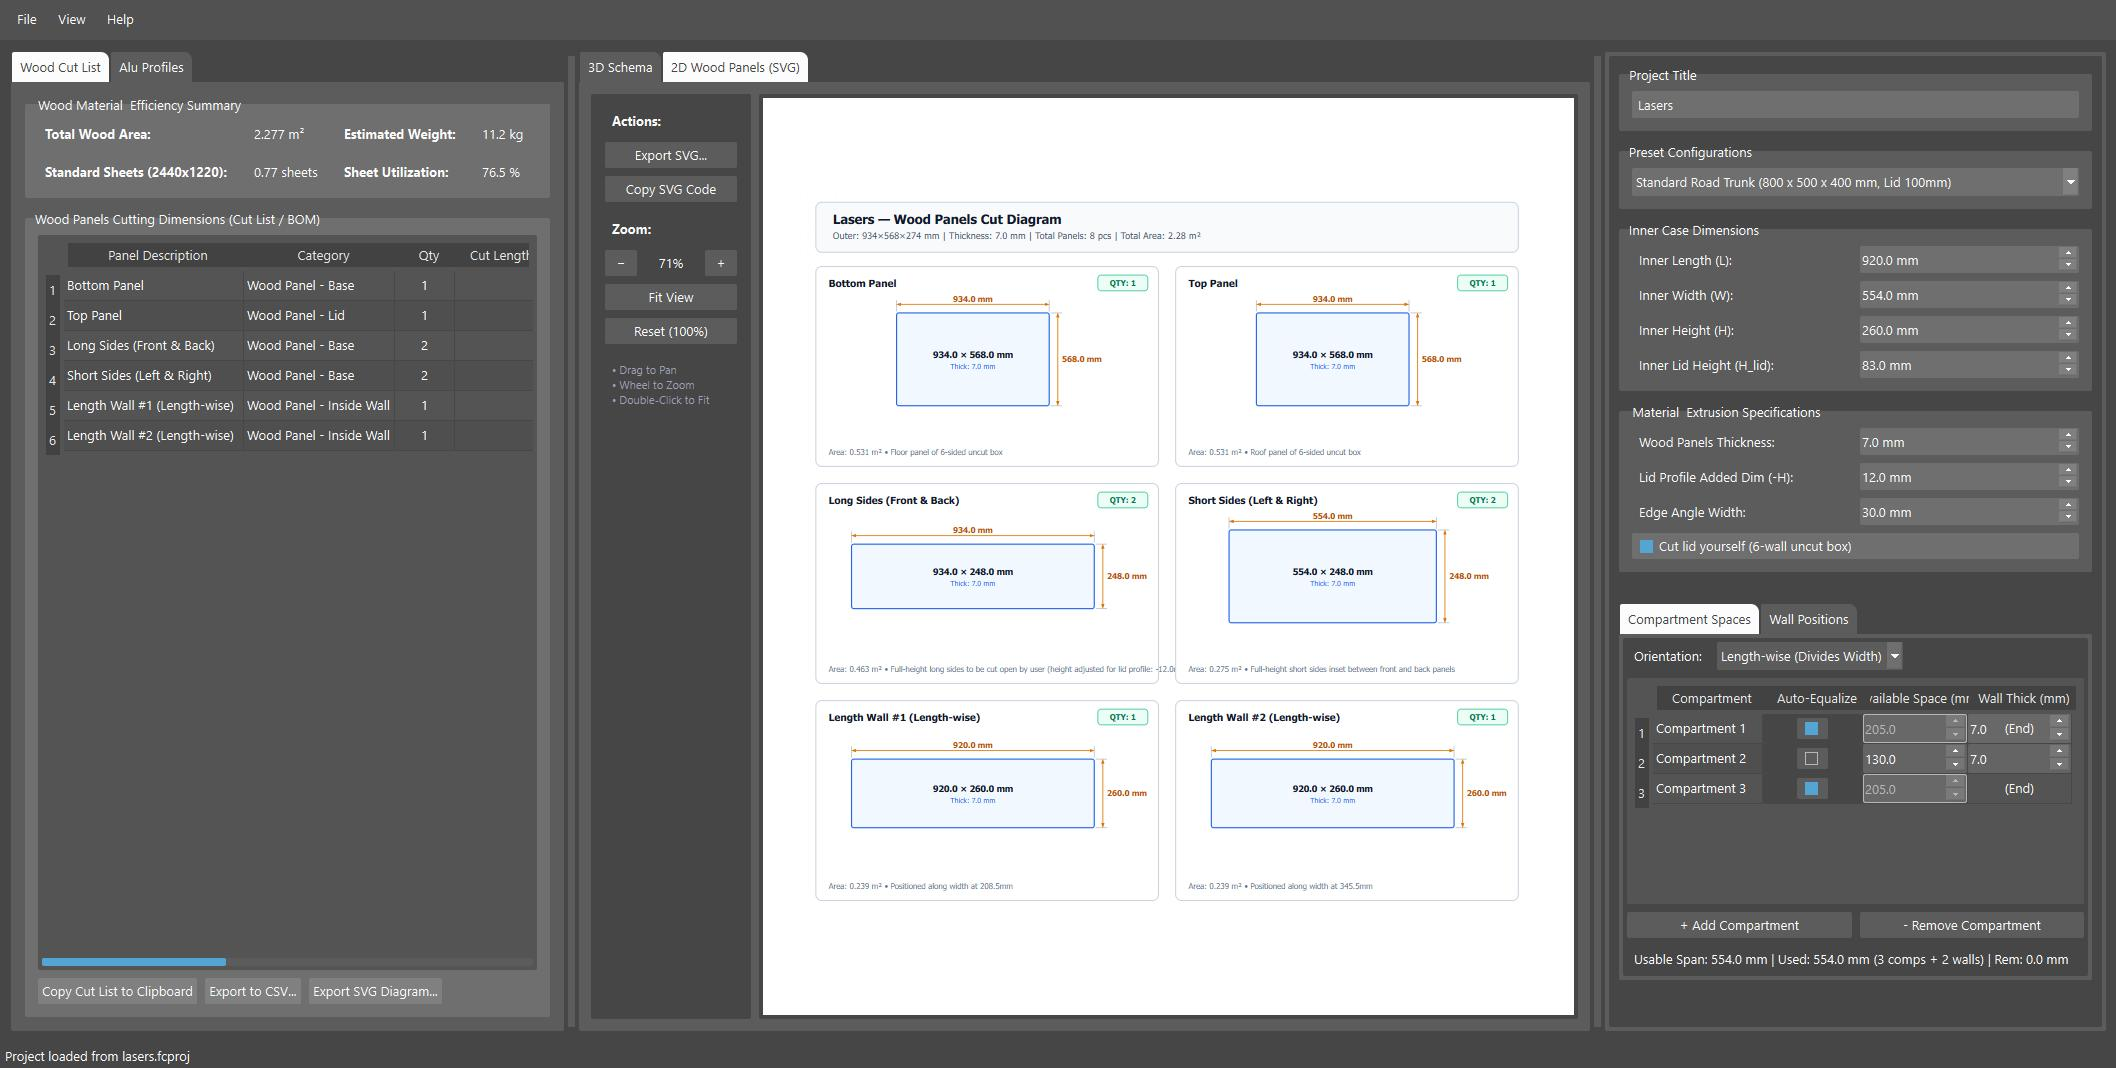
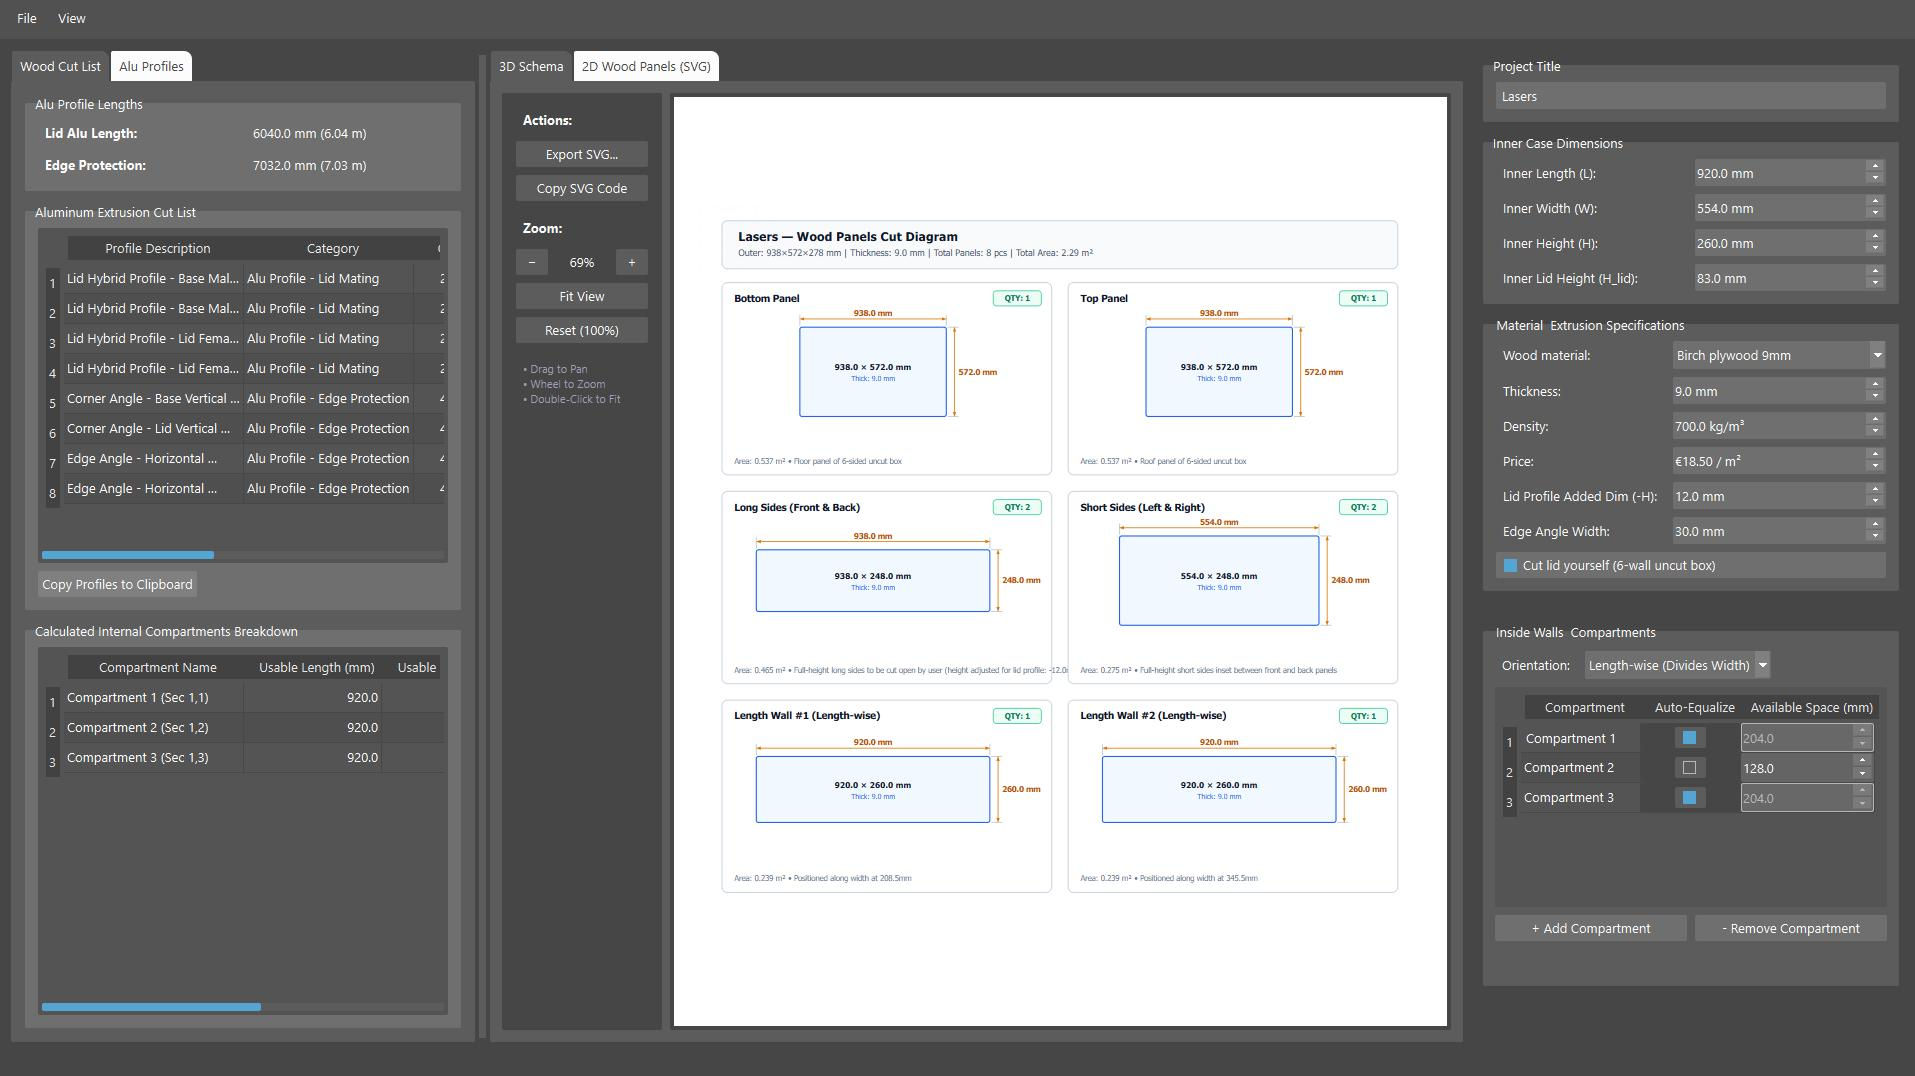
updated README.md

diff --git a/README.md b/README.md
@@ -10,26 +10,40 @@ A desktop CAD/CAM estimation and design tool built with Python, PySide6, and Ope
 
 ## Features
 
-- **Precise Material Calculations**: Automatically computes exact cut dimensions, surface areas, and quantities for wood panels (sides, lid, base, top) and aluminum profiles (corner extrusions, lid mating profiles).
+- **Precise Material Calculations & Cost/Weight Estimation**:
+  - Automatically computes exact cut dimensions, surface areas, and quantities for wood panels (sides, lid, base, top) and aluminum profiles (corner extrusions, lid mating profiles).
+  - Calculates total wood area ($m^2$), estimated wood weight ($kg$), total estimated material cost ($€$), and standard $2440 \times 1220\text{ mm}$ sheet count.
+- **Wood Material Library & Custom Presets**:
+  - Built-in material presets from JSON resources (Birch plywood 4–18mm, Hexa textured birch, lightweight Poplar, and Astroboard / Con-Pearl panels).
+  - Automatically loads and synchronizes thickness, density ($\text{kg/m}^3$), and unit price ($€/\text{m}^2$).
+  - Full support for custom material specifications.
 - **Interactive 3D OpenGL Visualizer**:
-  - Full 3D orbit, pan, and zoom navigation.
+  - Full 3D orbit, pan, and zoom navigation with hardware-accelerated anti-aliased wireframe and solid rendering.
   - Exploded view slider with automatic panel dimension callouts.
-  - Interactive lid opening simulation with variable hinge sides (Back, Front, Left, Right) and 0°–180° rotation.
-  - Dynamic inner partition wall visualization and selection highlighting.
+  - Interactive lid opening simulation with selectable hinge sides (Back, Front, Left, Right) and 0°–180° rotation.
+  - Dynamic inner partition wall rendering and bidirectional selection highlighting with cut list tables.
   - Support for both standard split-lid construction and self-cut lid (6-wall uncut box) workflows with cut markings.
 - **2D Wood Panels Technical Drawings (SVG)**:
   - Generates printer-friendly, high-contrast vector cut sheets.
   - Interactive 2D viewport with smooth pan and zoom.
   - One-click SVG export formatted for physical print or laser/CNC cut prep.
-- **Custom Internal Partitions**: Configure inside dividing walls along X and Y axes with real-time recalculation.
-- **Project Management**: Save and load custom `.fcproj` project files, presets, and customized project titles.
-- **Dark Desktop UI**: Integrated theme optimized for workshop environments.
+- **Dynamic Compartment & Partition Wall Management**:
+  - Configure inside dividing walls along X and Y axes with real-time recalculation.
+  - One-click auto-equalize distribution or custom width allocation per compartment.
+  - Partition wall thickness automatically synchronized with the active wood material specification.
+- **Bill of Materials (BOM) & Cut Lists**:
+  - Detailed wood cut list and aluminum profile tables with smooth pixel-level scrolling.
+  - Full BOM export to CSV for workshop cut lists and supplier orders.
+- **Project Management & Ergonomic UI**:
+  - Save and load `.fcproj` project files with automatic window state and project snapshot restoration.
+  - Quick access to recently opened project files.
+  - Workshop-optimized dark theme with a streamlined, fixed configuration panel layout.
 
 ---
 
 ## Requirements
 
-- Python >= 3.10 (tested on Python 3.14)
+- Python >= 3.14
 - Supported operating systems: Windows, macOS, Linux
 
 ### Core Dependencies
@@ -79,6 +93,8 @@ pip install -e .
 Run the complete test suite:
 
 ```bash
+uv run pytest
+# or with active virtual environment:
 pytest
 ```
 
